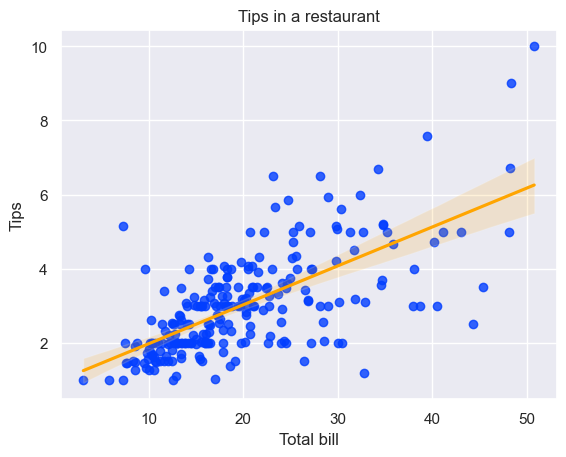
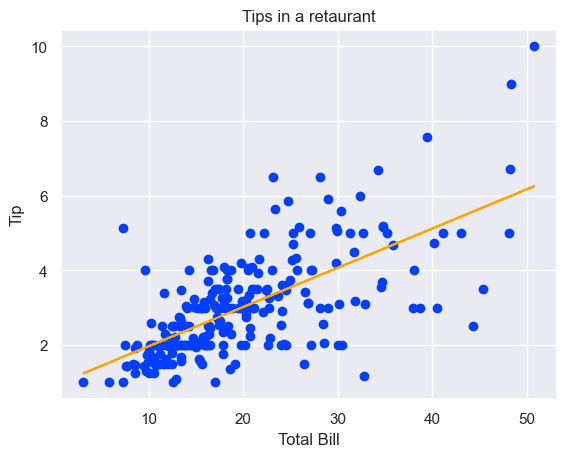
Built site for gh-pages

diff --git a/posts/Key Features and Explanation.html b/posts/Key Features and Explanation.html
@@ -169,19 +169,21 @@ pre > code.sourceCode > span > a:first-child::before { text-decoration: underlin
 
 <section id="key-features-and-explanation" class="level1">
 <h1><strong>Key Features and Explanation</strong></h1>
-<section id="loading-built-in-datasets" class="level3">
-<h3 class="anchored" data-anchor-id="loading-built-in-datasets">📌 Loading Built-In Datasets</h3>
+<p>Some of the Key features in Seaborn are:<br> - Built-In Datasets - Default Colour Themes - Simplified Code</p>
+<section id="built-in-datasets" class="level3">
+<h3 class="anchored" data-anchor-id="built-in-datasets">📌 Built-In Datasets</h3>
 <p>Seaborn provides access to a collection of built-in datasets. These can be used to demonstrate Seaborn’s functionalities and data visualization capabilities.<br></p>
 <p>We can load a built-in dataset from Seaborn using the following code:</p>
-<div id="cell-5" class="cell" data-execution_count="28">
-<div class="sourceCode cell-code" id="cb1"><pre class="sourceCode python code-with-copy"><code class="sourceCode python"><span id="cb1-1"><a href="#cb1-1" aria-hidden="true" tabindex="-1"></a><span class="im">import</span> seaborn <span class="im">as</span> sns</span>
-<span id="cb1-2"><a href="#cb1-2" aria-hidden="true" tabindex="-1"></a><span class="im">import</span> matplotlib.pyplot <span class="im">as</span> plt</span>
-<span id="cb1-3"><a href="#cb1-3" aria-hidden="true" tabindex="-1"></a><span class="im">import</span> pandas <span class="im">as</span> pd</span>
-<span id="cb1-4"><a href="#cb1-4" aria-hidden="true" tabindex="-1"></a><span class="im">import</span> numpy <span class="im">as</span> np</span>
-<span id="cb1-5"><a href="#cb1-5" aria-hidden="true" tabindex="-1"></a></span>
-<span id="cb1-6"><a href="#cb1-6" aria-hidden="true" tabindex="-1"></a>flights <span class="op">=</span> sns.load_dataset(<span class="st">'flights'</span>)  <span class="co"># Load the 'flights' dataset</span></span>
-<span id="cb1-7"><a href="#cb1-7" aria-hidden="true" tabindex="-1"></a></span>
-<span id="cb1-8"><a href="#cb1-8" aria-hidden="true" tabindex="-1"></a><span class="bu">print</span>(flights.head())  <span class="co"># Printing the first 5 rows of the dataset</span></span></code><button title="Copy to Clipboard" class="code-copy-button"><i class="bi"></i></button></pre></div>
+<div id="cell-6" class="cell" data-execution_count="2">
+<div class="sourceCode cell-code" id="cb1"><pre class="sourceCode python code-with-copy"><code class="sourceCode python"><span id="cb1-1"><a href="#cb1-1" aria-hidden="true" tabindex="-1"></a><span class="co"># Loading libraries</span></span>
+<span id="cb1-2"><a href="#cb1-2" aria-hidden="true" tabindex="-1"></a><span class="im">import</span> seaborn <span class="im">as</span> sns</span>
+<span id="cb1-3"><a href="#cb1-3" aria-hidden="true" tabindex="-1"></a><span class="im">import</span> matplotlib.pyplot <span class="im">as</span> plt</span>
+<span id="cb1-4"><a href="#cb1-4" aria-hidden="true" tabindex="-1"></a><span class="im">import</span> pandas <span class="im">as</span> pd</span>
+<span id="cb1-5"><a href="#cb1-5" aria-hidden="true" tabindex="-1"></a><span class="im">import</span> numpy <span class="im">as</span> np</span>
+<span id="cb1-6"><a href="#cb1-6" aria-hidden="true" tabindex="-1"></a></span>
+<span id="cb1-7"><a href="#cb1-7" aria-hidden="true" tabindex="-1"></a>flights <span class="op">=</span> sns.load_dataset(<span class="st">'flights'</span>)  <span class="co"># Load the 'flights' dataset</span></span>
+<span id="cb1-8"><a href="#cb1-8" aria-hidden="true" tabindex="-1"></a></span>
+<span id="cb1-9"><a href="#cb1-9" aria-hidden="true" tabindex="-1"></a><span class="bu">print</span>(flights.head())  <span class="co"># Printing the first 5 rows of the dataset</span></span></code><button title="Copy to Clipboard" class="code-copy-button"><i class="bi"></i></button></pre></div>
 <div class="cell-output cell-output-stdout">
 <pre><code>   year month  passengers
 0  1949   Jan         112
@@ -195,12 +197,12 @@ pre > code.sourceCode > span > a:first-child::before { text-decoration: underlin
 <section id="default-colour-themes" class="level3">
 <h3 class="anchored" data-anchor-id="default-colour-themes">📌 Default Colour Themes</h3>
 <ul>
-<li>Seaborn provides us with some default colour themes and palettes which make it easy to plot visually appealing graphs. We can also create and save our own colour themes and palettes to use them in future.</li>
-<li>Some examples of these colour themes are ticks, whitegrid, darkgrid, dark and white. Some exaples of the colour palettes are pastel, bright, muted and deep.</li>
-<li>The colour themes seem to enhance the font colour, background colour, gridlines and the overall appearance of our plots to make it look cleaner.</li>
+<li>Seaborn provides some default colour themes and palettes, making it easy to plot visually appealing graphs. We can also create and save our colour themes and palettes for future use.</li>
+<li>Some examples of these colour themes are ticks, whitegrid, darkgrid, dark, and white. Some examples of the colour palettes are pastel, bright, muted, and deep.</li>
+<li>The colour themes enhance the font colour, background colour, gridlines, and the overall appearance of our plots to make them look cleaner.</li>
 </ul>
 <p>These themes and palettes can be used in the following way:</p>
-<div id="cell-9" class="cell" data-execution_count="34">
+<div id="cell-10" class="cell" data-execution_count="8">
 <div class="sourceCode cell-code" id="cb3"><pre class="sourceCode python code-with-copy"><code class="sourceCode python"><span id="cb3-1"><a href="#cb3-1" aria-hidden="true" tabindex="-1"></a><span class="co"># Applying darkgid theme</span></span>
 <span id="cb3-2"><a href="#cb3-2" aria-hidden="true" tabindex="-1"></a>sns.set_theme(style<span class="op">=</span><span class="st">"darkgrid"</span>, context<span class="op">=</span><span class="st">"notebook"</span>, palette<span class="op">=</span><span class="st">'bright'</span>)</span>
 <span id="cb3-3"><a href="#cb3-3" aria-hidden="true" tabindex="-1"></a>plt.figure(figsize<span class="op">=</span>(<span class="dv">10</span>, <span class="dv">8</span>))</span>
@@ -209,7 +211,7 @@ pre > code.sourceCode > span > a:first-child::before { text-decoration: underlin
 <span id="cb3-6"><a href="#cb3-6" aria-hidden="true" tabindex="-1"></a>    plt.plot(flights[flights[<span class="st">'year'</span>] <span class="op">==</span> y][<span class="st">'month'</span>], flights[flights[<span class="st">'year'</span>] <span class="op">==</span> y][<span class="st">'passengers'</span>], label<span class="op">=</span><span class="ss">f'</span><span class="sc">{</span>y<span class="sc">}</span><span class="ss">'</span>)</span>
 <span id="cb3-7"><a href="#cb3-7" aria-hidden="true" tabindex="-1"></a>plt.xlabel(<span class="st">'Month'</span>)</span>
 <span id="cb3-8"><a href="#cb3-8" aria-hidden="true" tabindex="-1"></a>plt.ylabel(<span class="st">'Number of passengers'</span>)</span>
-<span id="cb3-9"><a href="#cb3-9" aria-hidden="true" tabindex="-1"></a>plt.title(<span class="st">'Number of Passengers travelling in flights'</span>)</span>
+<span id="cb3-9"><a href="#cb3-9" aria-hidden="true" tabindex="-1"></a>plt.title(<span class="st">'Number of Passengers traveling in flights'</span>)</span>
 <span id="cb3-10"><a href="#cb3-10" aria-hidden="true" tabindex="-1"></a>plt.legend()</span>
 <span id="cb3-11"><a href="#cb3-11" aria-hidden="true" tabindex="-1"></a>plt.tight_layout()</span>
 <span id="cb3-12"><a href="#cb3-12" aria-hidden="true" tabindex="-1"></a>plt.show()</span></code><button title="Copy to Clipboard" class="code-copy-button"><i class="bi"></i></button></pre></div>
@@ -221,19 +223,38 @@ pre > code.sourceCode > span > a:first-child::before { text-decoration: underlin
 </div>
 </div>
 </div>
-<p>The above line plot shows trend of the number of passengers travelling over months for years from 1949 to 1960.</p>
-<p><b>Now let us explore some plot types that work effectively in Seaborn.</b></p>
+<p>The above line plot shows the trend of the number of passengers traveling over months for years from 1949 to 1960.</p>
+</section>
+<section id="simplified-code" class="level3">
+<h3 class="anchored" data-anchor-id="simplified-code">📌 Simplified Code</h3>
+<ul>
+<li>Seaborn is designed so that it is easy to visualize data while working on some datasets. Seaborn can support several different dataset formats, which are usually stored as objects of Numpy and Pandas libraries. &nbsp;</li>
+<li>Seaborn will take care of small details like colours, legends, and labels while working with datasets, enabling us to plot complex graphs with fewer lines of code than Matplotlib.</li>
+</ul>
+<p>We will see the implementation of this property later in this blog while talking about the Regression plot.</p>
+<p><b>Now let’s explore some plot types that work effectively in Seaborn.</b></p>
 </section>
 <section id="regression-plot" class="level3">
 <h3 class="anchored" data-anchor-id="regression-plot">📌 Regression Plot</h3>
 <p>This type of plot is helpful if we want to study the relationship between variables. Seaborn has a function regplot(), which can be used to plot regression plots, making it easier to understand the relationship between variables and fit a linear regression model for the data.</p>
-<div id="cell-14" class="cell" data-execution_count="35">
-<div class="sourceCode cell-code" id="cb4"><pre class="sourceCode python code-with-copy"><code class="sourceCode python"><span id="cb4-1"><a href="#cb4-1" aria-hidden="true" tabindex="-1"></a>tips <span class="op">=</span> sns.load_dataset(<span class="st">"tips"</span>)</span>
-<span id="cb4-2"><a href="#cb4-2" aria-hidden="true" tabindex="-1"></a>sns.regplot(x<span class="op">=</span><span class="st">'total_bill'</span>, y<span class="op">=</span><span class="st">'tip'</span>, data<span class="op">=</span>tips, line_kws<span class="op">=</span>{<span class="st">'color'</span>: <span class="st">'orange'</span>})  <span class="co"># Create a regression plot</span></span>
-<span id="cb4-3"><a href="#cb4-3" aria-hidden="true" tabindex="-1"></a>plt.xlabel(<span class="st">'Total bill'</span>)</span>
-<span id="cb4-4"><a href="#cb4-4" aria-hidden="true" tabindex="-1"></a>plt.ylabel(<span class="st">'Tips'</span>)</span>
-<span id="cb4-5"><a href="#cb4-5" aria-hidden="true" tabindex="-1"></a>plt.title(<span class="st">'Tips in a restaurant'</span>)</span>
-<span id="cb4-6"><a href="#cb4-6" aria-hidden="true" tabindex="-1"></a>plt.show()</span></code><button title="Copy to Clipboard" class="code-copy-button"><i class="bi"></i></button></pre></div>
+<p>First lets plot using Matplotlib:</p>
+<div id="cell-19" class="cell" data-execution_count="9">
+<div class="sourceCode cell-code" id="cb4"><pre class="sourceCode python code-with-copy"><code class="sourceCode python"><span id="cb4-1"><a href="#cb4-1" aria-hidden="true" tabindex="-1"></a><span class="co"># Loading the built-in dataset</span></span>
+<span id="cb4-2"><a href="#cb4-2" aria-hidden="true" tabindex="-1"></a>tips <span class="op">=</span> sns.load_dataset(<span class="st">'tips'</span>)</span>
+<span id="cb4-3"><a href="#cb4-3" aria-hidden="true" tabindex="-1"></a></span>
+<span id="cb4-4"><a href="#cb4-4" aria-hidden="true" tabindex="-1"></a><span class="co"># Plotting the scatter plot</span></span>
+<span id="cb4-5"><a href="#cb4-5" aria-hidden="true" tabindex="-1"></a>plt.scatter(tips[<span class="st">'total_bill'</span>], tips[<span class="st">'tip'</span>]) </span>
+<span id="cb4-6"><a href="#cb4-6" aria-hidden="true" tabindex="-1"></a></span>
+<span id="cb4-7"><a href="#cb4-7" aria-hidden="true" tabindex="-1"></a><span class="co"># Using numpy to get the slope and Y-intercept of the Regression line</span></span>
+<span id="cb4-8"><a href="#cb4-8" aria-hidden="true" tabindex="-1"></a>slope, y_intercept <span class="op">=</span> np.polyfit(tips[<span class="st">'total_bill'</span>], tips[<span class="st">'tip'</span>], <span class="dv">1</span>) </span>
+<span id="cb4-9"><a href="#cb4-9" aria-hidden="true" tabindex="-1"></a></span>
+<span id="cb4-10"><a href="#cb4-10" aria-hidden="true" tabindex="-1"></a><span class="co"># Plotting the regression line</span></span>
+<span id="cb4-11"><a href="#cb4-11" aria-hidden="true" tabindex="-1"></a>plt.plot(tips[<span class="st">'total_bill'</span>], slope <span class="op">*</span> tips[<span class="st">'total_bill'</span>] <span class="op">+</span> y_intercept, color<span class="op">=</span><span class="st">'orange'</span>) </span>
+<span id="cb4-12"><a href="#cb4-12" aria-hidden="true" tabindex="-1"></a></span>
+<span id="cb4-13"><a href="#cb4-13" aria-hidden="true" tabindex="-1"></a>plt.xlabel(<span class="st">'Total Bill'</span>)</span>
+<span id="cb4-14"><a href="#cb4-14" aria-hidden="true" tabindex="-1"></a>plt.ylabel(<span class="st">'Tip'</span>)</span>
+<span id="cb4-15"><a href="#cb4-15" aria-hidden="true" tabindex="-1"></a>plt.title(<span class="st">'Tips in a retaurant'</span>)</span>
+<span id="cb4-16"><a href="#cb4-16" aria-hidden="true" tabindex="-1"></a>plt.show()</span></code><button title="Copy to Clipboard" class="code-copy-button"><i class="bi"></i></button></pre></div>
 <div class="cell-output cell-output-display">
 <div>
 <figure class="figure">
@@ -242,25 +263,14 @@ pre > code.sourceCode > span > a:first-child::before { text-decoration: underlin
 </div>
 </div>
 </div>
-<ul>
-<li>This above graph tells about how individuals tip varying based on the total bill. The orange line is the regression line which is the best fit line for the data and tries to capture the overall trend.</li>
-<li>The orange coloured shaded region around the regression line shows how reliable is the regression model of our data. The wider the region, more is the uncertainty of our regression model.</li>
-<li>By using line_kws we are applying orange colour to our best fit line.</li>
-</ul>
-<p>Also you might be wondering why the darkgrid colour theme was applied even though we have not applied any theme in the above code snippet; it is because once sns.set_theme() is called, it sets the theme as the default theme and applies it all the plots.</p>
-</section>
-<section id="violin-plot" class="level3">
-<h3 class="anchored" data-anchor-id="violin-plot">📌 Violin Plot</h3>
-<p>A violin plot is mix of kernel density estimate (KDE) plot and a boxplot. It is very useful in instances when we want to compare statistical data over multiple groups in a dataset. They help to visualize the spread, density, and shape of the data.</p>
-<div id="cell-19" class="cell" data-execution_count="37">
-<div class="sourceCode cell-code" id="cb5"><pre class="sourceCode python code-with-copy"><code class="sourceCode python"><span id="cb5-1"><a href="#cb5-1" aria-hidden="true" tabindex="-1"></a>plt.figure(figsize<span class="op">=</span>(<span class="dv">8</span>, <span class="dv">6</span>))</span>
-<span id="cb5-2"><a href="#cb5-2" aria-hidden="true" tabindex="-1"></a>sns.violinplot(x<span class="op">=</span><span class="st">"day"</span>, y<span class="op">=</span><span class="st">"total_bill"</span>, hue<span class="op">=</span><span class="st">"sex"</span>, data<span class="op">=</span>tips, split<span class="op">=</span><span class="va">True</span>)</span>
-<span id="cb5-3"><a href="#cb5-3" aria-hidden="true" tabindex="-1"></a>plt.xlabel(<span class="st">'Day'</span>)</span>
-<span id="cb5-4"><a href="#cb5-4" aria-hidden="true" tabindex="-1"></a>plt.ylabel(<span class="st">'Total bill'</span>)</span>
-<span id="cb5-5"><a href="#cb5-5" aria-hidden="true" tabindex="-1"></a>plt.legend(loc<span class="op">=</span><span class="st">'upper right'</span>)</span>
-<span id="cb5-6"><a href="#cb5-6" aria-hidden="true" tabindex="-1"></a>plt.title(<span class="st">'Distribution of tips based on days'</span>)</span>
-<span id="cb5-7"><a href="#cb5-7" aria-hidden="true" tabindex="-1"></a>plt.tight_layout()</span>
-<span id="cb5-8"><a href="#cb5-8" aria-hidden="true" tabindex="-1"></a>plt.show()</span></code><button title="Copy to Clipboard" class="code-copy-button"><i class="bi"></i></button></pre></div>
+<p>As you can see, we needed 8 lines of code to plot a regression plot using Matplotlib. Below, you can see how Seaborn can generate the same plot in just 2 to 3 lines of code. This demonstrates Seaborn’s simplified coding feature.</p>
+<div id="cell-21" class="cell" data-execution_count="5">
+<div class="sourceCode cell-code" id="cb5"><pre class="sourceCode python code-with-copy"><code class="sourceCode python"><span id="cb5-1"><a href="#cb5-1" aria-hidden="true" tabindex="-1"></a>tips <span class="op">=</span> sns.load_dataset(<span class="st">"tips"</span>)</span>
+<span id="cb5-2"><a href="#cb5-2" aria-hidden="true" tabindex="-1"></a>sns.regplot(x<span class="op">=</span><span class="st">'total_bill'</span>, y<span class="op">=</span><span class="st">'tip'</span>, data<span class="op">=</span>tips, line_kws<span class="op">=</span>{<span class="st">'color'</span>: <span class="st">'orange'</span>})  <span class="co"># Create a regression plot</span></span>
+<span id="cb5-3"><a href="#cb5-3" aria-hidden="true" tabindex="-1"></a>plt.xlabel(<span class="st">'Total bill'</span>)</span>
+<span id="cb5-4"><a href="#cb5-4" aria-hidden="true" tabindex="-1"></a>plt.ylabel(<span class="st">'Tips'</span>)</span>
+<span id="cb5-5"><a href="#cb5-5" aria-hidden="true" tabindex="-1"></a>plt.title(<span class="st">'Tips in a restaurant'</span>)</span>
+<span id="cb5-6"><a href="#cb5-6" aria-hidden="true" tabindex="-1"></a>plt.show()</span></code><button title="Copy to Clipboard" class="code-copy-button"><i class="bi"></i></button></pre></div>
 <div class="cell-output cell-output-display">
 <div>
 <figure class="figure">
@@ -270,9 +280,36 @@ pre > code.sourceCode > span > a:first-child::before { text-decoration: underlin
 </div>
 </div>
 <ul>
-<li>In the above plot we are comparing the distribution of total bill between males and females for each of the week. The wider area tells us about the concentration of data. It also tells about the shape of the distribution.</li>
-<li>We are using hue=“sex” to plot the distribution separately based on sex of the customers.</li>
-<li>Further we are using split=True to split the violin graph into two parts and showing them side by side for an easy comparsion between them.</li>
+<li>The above graph shows how individuals’ tips vary based on the total bill. The orange line is the regression line, the best-fit line for the data, and tries to capture the overall trend.</li>
+<li>The orange-coloured shaded region around the regression line shows how reliable the regression model of our data is. The wider the area, the more the uncertainty of our regression model.</li>
+<li>Using line_kws, we apply orange color to our best-fit line.</li>
+</ul>
+<p>Also, you might be wondering why the darkgrid colour theme was applied even though we have not used any theme in the above code snippets; it is because once sns.set_theme() is called, it sets the theme as the default theme and applies it all the plots.</p>
+</section>
+<section id="violin-plot" class="level3">
+<h3 class="anchored" data-anchor-id="violin-plot">📌 Violin Plot</h3>
+<p>A violin plot is a mix of a kernel density estimate (KDE) plot and a boxplot. It is beneficial when we want to compare statistical data over multiple groups in a dataset. They help visualize the data’s spread, density, and shape.</p>
+<div id="cell-26" class="cell" data-execution_count="6">
+<div class="sourceCode cell-code" id="cb6"><pre class="sourceCode python code-with-copy"><code class="sourceCode python"><span id="cb6-1"><a href="#cb6-1" aria-hidden="true" tabindex="-1"></a>plt.figure(figsize<span class="op">=</span>(<span class="dv">8</span>, <span class="dv">6</span>))</span>
+<span id="cb6-2"><a href="#cb6-2" aria-hidden="true" tabindex="-1"></a>sns.violinplot(x<span class="op">=</span><span class="st">"day"</span>, y<span class="op">=</span><span class="st">"total_bill"</span>, hue<span class="op">=</span><span class="st">"sex"</span>, data<span class="op">=</span>tips, split<span class="op">=</span><span class="va">True</span>)</span>
+<span id="cb6-3"><a href="#cb6-3" aria-hidden="true" tabindex="-1"></a>plt.xlabel(<span class="st">'Day'</span>)</span>
+<span id="cb6-4"><a href="#cb6-4" aria-hidden="true" tabindex="-1"></a>plt.ylabel(<span class="st">'Total bill'</span>)</span>
+<span id="cb6-5"><a href="#cb6-5" aria-hidden="true" tabindex="-1"></a>plt.legend(loc<span class="op">=</span><span class="st">'upper right'</span>)</span>
+<span id="cb6-6"><a href="#cb6-6" aria-hidden="true" tabindex="-1"></a>plt.title(<span class="st">'Distribution of tips based on days'</span>)</span>
+<span id="cb6-7"><a href="#cb6-7" aria-hidden="true" tabindex="-1"></a>plt.tight_layout()</span>
+<span id="cb6-8"><a href="#cb6-8" aria-hidden="true" tabindex="-1"></a>plt.show()</span></code><button title="Copy to Clipboard" class="code-copy-button"><i class="bi"></i></button></pre></div>
+<div class="cell-output cell-output-display">
+<div>
+<figure class="figure">
+<p><img src="Key Features and Explanation_files/figure-html/cell-6-output-1.png" class="img-fluid figure-img"></p>
+</figure>
+</div>
+</div>
+</div>
+<ul>
+<li>In the above plot, we compare the distribution of total bills between males and females for each week. The wider area tells us about the concentration of data. It also speaks about the shape of the distribution.</li>
+<li>We are using hue=“sex” to plot the distribution separately based on the sex of the customers.</li>
+<li>Further, we are using split=True to split the violin graph into two parts and show them side by side for easy comparison.</li>
 </ul>
 
 

diff --git a/blog.html b/blog.html
@@ -196,7 +196,7 @@ window.Quarto = {
 
 <div class="quarto-listing quarto-listing-container-default" id="listing-listing">
 <div class="list quarto-listing-default">
-<div class="quarto-post image-right" data-index="0" data-categories="SW50cm9kdWN0aW9u" data-listing-file-modified-sort="1740453815463" data-listing-reading-time-sort="1" data-listing-word-count-sort="59">
+<div class="quarto-post image-right" data-index="0" data-categories="SW50cm9kdWN0aW9u" data-listing-file-modified-sort="1740498860300" data-listing-reading-time-sort="1" data-listing-word-count-sort="59">
 <div class="body">
 <h3 class="no-anchor listing-title">
 <a href="./posts/Introduction.html" class="no-external">Introduction to Seaborn</a>
@@ -210,7 +210,7 @@ window.Quarto = {
 </a>
 </div>
 </div>
-<div class="quarto-post image-right" data-index="1" data-categories="SW5zdGFsbGF0aW9uJTIwYW5kJTIwU2V0dXA=" data-listing-file-modified-sort="1740453815463" data-listing-reading-time-sort="1" data-listing-word-count-sort="126">
+<div class="quarto-post image-right" data-index="1" data-categories="SW5zdGFsbGF0aW9uJTIwYW5kJTIwU2V0dXA=" data-listing-file-modified-sort="1740498860300" data-listing-reading-time-sort="1" data-listing-word-count-sort="126">
 <div class="body">
 <h3 class="no-anchor listing-title">
 <a href="./posts/Installation and Setup.html" class="no-external">Installation and Setup</a>
@@ -224,7 +224,7 @@ window.Quarto = {
 </a>
 </div>
 </div>
-<div class="quarto-post image-right" data-index="2" data-categories="S2V5JTIwRmVhdHVyZXMlMjBhbmQlMjBFeHBsYW5hdGlvbg==" data-listing-file-modified-sort="1740453815465" data-listing-reading-time-sort="3" data-listing-word-count-sort="470">
+<div class="quarto-post image-right" data-index="2" data-categories="S2V5JTIwRmVhdHVyZXMlMjBhbmQlMjBFeHBsYW5hdGlvbg==" data-listing-file-modified-sort="1740498860302" data-listing-reading-time-sort="3" data-listing-word-count-sort="591">
 <div class="body">
 <h3 class="no-anchor listing-title">
 <a href="./posts/Key Features and Explanation.html" class="no-external">Key Features and Explanation</a>
@@ -238,7 +238,7 @@ window.Quarto = {
 </a>
 </div>
 </div>
-<div class="quarto-post image-right" data-index="3" data-categories="VXNlJTIwQ2FzZXM=" data-listing-file-modified-sort="1740453815468" data-listing-reading-time-sort="1" data-listing-word-count-sort="190">
+<div class="quarto-post image-right" data-index="3" data-categories="VXNlJTIwQ2FzZXM=" data-listing-file-modified-sort="1740498860305" data-listing-reading-time-sort="1" data-listing-word-count-sort="190">
 <div class="body">
 <h3 class="no-anchor listing-title">
 <a href="./posts/Use_Cases.html" class="no-external">Use Cases of Seaborn</a>
@@ -252,7 +252,7 @@ window.Quarto = {
 </a>
 </div>
 </div>
-<div class="quarto-post image-right" data-index="4" data-categories="Q29uY2x1c2lvbg==" data-listing-file-modified-sort="1740453815463" data-listing-reading-time-sort="1" data-listing-word-count-sort="165">
+<div class="quarto-post image-right" data-index="4" data-categories="Q29uY2x1c2lvbg==" data-listing-file-modified-sort="1740498860300" data-listing-reading-time-sort="1" data-listing-word-count-sort="165">
 <div class="body">
 <h3 class="no-anchor listing-title">
 <a href="./posts/Conclusion.html" class="no-external">Conclusion</a>
@@ -266,7 +266,7 @@ window.Quarto = {
 </a>
 </div>
 </div>
-<div class="quarto-post image-right" data-index="5" data-categories="UmVmZXJlbmNlcw==" data-listing-file-modified-sort="1740453815468" data-listing-reading-time-sort="1" data-listing-word-count-sort="85">
+<div class="quarto-post image-right" data-index="5" data-categories="UmVmZXJlbmNlcw==" data-listing-file-modified-sort="1740498860305" data-listing-reading-time-sort="1" data-listing-word-count-sort="85">
 <div class="body">
 <h3 class="no-anchor listing-title">
 <a href="./posts/reference.html" class="no-external">References &amp; Further Reading</a>
